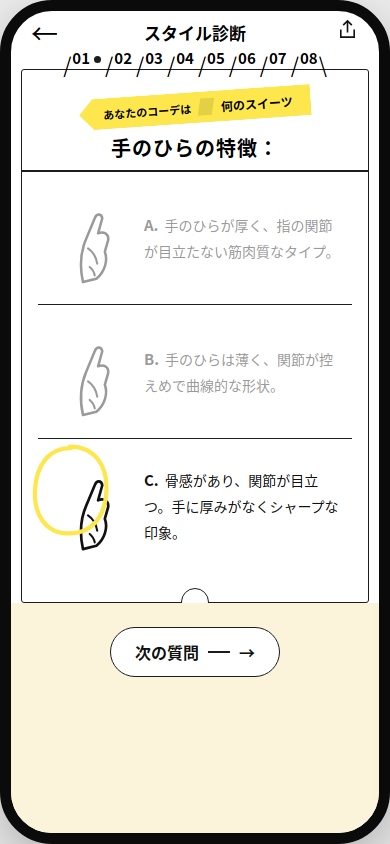
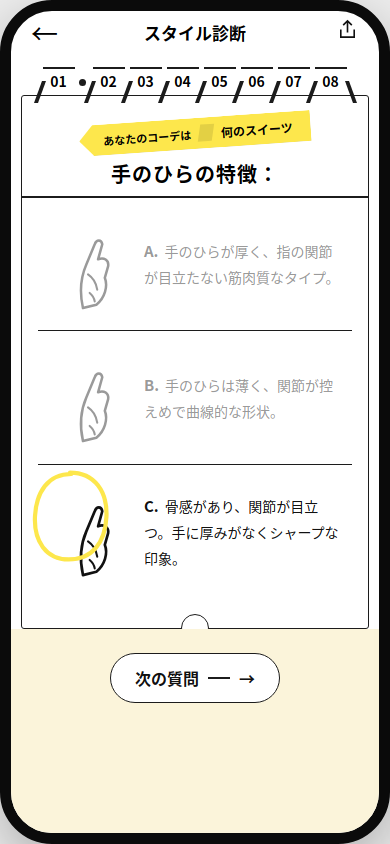
docs: 修正 tab 为菱形斜线+梯形格结构，数字悬于短横与边框之间

diff --git a/prototype/style-shindan/style-shindan-repro.html b/prototype/style-shindan/style-shindan-repro.html
@@ -40,17 +40,20 @@
   .share { position:absolute; right:20px; top:50%; transform:translateY(-50%); }
   /* ---------- card ---------- */
 
-  /* 进度 tab：/NN 骑在卡片顶边框上，斜线居数字前，末尾反斜线，当前题带 ● */
+  /* 进度 tab：每格 = 粗斜线(菱形) + 顶部短横 + 数字，骑在卡片顶边框上形成梯形 */
   .steps {
     position:absolute; bottom:100%; left:0; right:0; margin-bottom:-1px;
     display:flex; justify-content:center; align-items:flex-end; pointer-events:none;
   }
-  .step { display:flex; align-items:flex-end; margin:0 1.5px; }
-  .step .sl { font-style:normal; font-size:21px; line-height:1; margin-bottom:-4px; }
-  .step .nm { font-style:normal; font-size:15px; font-weight:700; line-height:1; padding-bottom:6px; margin:0 1px; }
-  .step .dt { width:7px; height:7px; border-radius:50%; background:#1c1c1c; margin:0 1px 8px 3px; }
+  .step { display:flex; align-items:flex-end; margin:0; }
+  .step .sl { width:4px; height:22px; background:#1c1c1c; transform:skewX(-20deg); margin:0 1px -6px 0; flex:none; }
+  .step .sl.r { transform:skewX(20deg); margin:0 0 -6px 2px; }
+  .step .tcell { display:flex; flex-direction:column; align-items:stretch; }
+  .step .ol { height:2px; background:#1c1c1c; width:32px; margin-bottom:5px; }
+  .step .nm { font-size:14px; font-weight:700; line-height:1; padding-bottom:9px; text-align:center; font-style:normal; }
+  .step .dt { width:7px; height:7px; border-radius:50%; background:#1c1c1c; margin:0 2px 11px 4px; flex:none; }
   .card {
-    margin:16px 10px 0; border:1.6px solid #1c1c1c; border-radius:3px;
+    margin:42px 10px 0; border:1.6px solid #1c1c1c; border-radius:3px;
     background:#fff; position:relative; padding:20px 16px 30px; flex-shrink:0;
   }
   .steps { position:absolute; top:-14px; left:0; right:0; text-align:center; }
@@ -122,7 +125,7 @@
       <span class="share"><svg width="23" height="23" viewBox="0 0 24 24" fill="none" stroke="#111" stroke-width="1.7"><path d="M12 3v12M7.5 7.5 12 3l4.5 4.5"/><path d="M5 12v8h14v-8"/></svg></span>
     </div>
     <div class="card">
-      <div class="steps"><span class="step"><i class="sl">/</i><b class="nm">01</b></span><span class="step"><i class="sl">/</i><b class="nm">02</b></span><span class="step"><i class="sl">/</i><b class="nm">03</b></span><span class="step"><i class="sl">/</i><b class="nm">04</b></span><span class="step"><i class="sl">/</i><b class="nm">05</b><i class="dt"></i></span><span class="step"><i class="sl">/</i><b class="nm">06</b></span><span class="step"><i class="sl">/</i><b class="nm">07</b></span><span class="step"><i class="sl">/</i><b class="nm">08</b><i class="sl">\</i></span></div>
+      <div class="steps"><span class="step"><i class="sl"></i><span class="tcell"><i class="ol"></i><b class="nm">01</b></span></span><span class="step"><i class="sl"></i><span class="tcell"><i class="ol"></i><b class="nm">02</b></span></span><span class="step"><i class="sl"></i><span class="tcell"><i class="ol"></i><b class="nm">03</b></span></span><span class="step"><i class="sl"></i><span class="tcell"><i class="ol"></i><b class="nm">04</b></span></span><span class="step"><i class="sl"></i><span class="tcell"><i class="ol"></i><b class="nm">05</b></span><i class="dt"></i></span><span class="step"><i class="sl"></i><span class="tcell"><i class="ol"></i><b class="nm">06</b></span></span><span class="step"><i class="sl"></i><span class="tcell"><i class="ol"></i><b class="nm">07</b></span></span><span class="step"><i class="sl"></i><span class="tcell"><i class="ol"></i><b class="nm">08</b></span><i class="sl r"></i></span></div>
       <div class="ribbon-wrap"><div class="ribbon"><span class="r1">あなたのコーデは</span><span class="fold"></span><span class="r2">何のスイーツ</span></div></div>
       <div class="qtitle">瞳の色：</div>
       <div class="rule"></div>
@@ -159,7 +162,7 @@
       <span class="share"><svg width="23" height="23" viewBox="0 0 24 24" fill="none" stroke="#111" stroke-width="1.7"><path d="M12 3v12M7.5 7.5 12 3l4.5 4.5"/><path d="M5 12v8h14v-8"/></svg></span>
     </div>
     <div class="card">
-      <div class="steps"><span class="step"><i class="sl">/</i><b class="nm">01</b></span><span class="step"><i class="sl">/</i><b class="nm">02</b></span><span class="step"><i class="sl">/</i><b class="nm">03</b></span><span class="step"><i class="sl">/</i><b class="nm">04</b></span><span class="step"><i class="sl">/</i><b class="nm">05</b></span><span class="step"><i class="sl">/</i><b class="nm">06</b></span><span class="step"><i class="sl">/</i><b class="nm">07</b></span><span class="step"><i class="sl">/</i><b class="nm">08</b><i class="dt"></i><i class="sl">\</i></span></div>
+      <div class="steps"><span class="step"><i class="sl"></i><span class="tcell"><i class="ol"></i><b class="nm">01</b></span></span><span class="step"><i class="sl"></i><span class="tcell"><i class="ol"></i><b class="nm">02</b></span></span><span class="step"><i class="sl"></i><span class="tcell"><i class="ol"></i><b class="nm">03</b></span></span><span class="step"><i class="sl"></i><span class="tcell"><i class="ol"></i><b class="nm">04</b></span></span><span class="step"><i class="sl"></i><span class="tcell"><i class="ol"></i><b class="nm">05</b></span></span><span class="step"><i class="sl"></i><span class="tcell"><i class="ol"></i><b class="nm">06</b></span></span><span class="step"><i class="sl"></i><span class="tcell"><i class="ol"></i><b class="nm">07</b></span></span><span class="step"><i class="sl"></i><span class="tcell"><i class="ol"></i><b class="nm">08</b></span><i class="dt"></i><i class="sl r"></i></span></div>
       <div class="ribbon-wrap"><div class="ribbon"><span class="r1">あなたのコーデは</span><span class="fold"></span><span class="r2">何のスイーツ</span></div></div>
       <div class="qtitle">自然光環境にある肌色：</div>
       <div class="rule"></div>
@@ -196,7 +199,7 @@
       <span class="share"><svg width="23" height="23" viewBox="0 0 24 24" fill="none" stroke="#111" stroke-width="1.7"><path d="M12 3v12M7.5 7.5 12 3l4.5 4.5"/><path d="M5 12v8h14v-8"/></svg></span>
     </div>
     <div class="card">
-      <div class="steps"><span class="step"><i class="sl">/</i><b class="nm">01</b><i class="dt"></i></span><span class="step"><i class="sl">/</i><b class="nm">02</b></span><span class="step"><i class="sl">/</i><b class="nm">03</b></span><span class="step"><i class="sl">/</i><b class="nm">04</b></span><span class="step"><i class="sl">/</i><b class="nm">05</b></span><span class="step"><i class="sl">/</i><b class="nm">06</b></span><span class="step"><i class="sl">/</i><b class="nm">07</b></span><span class="step"><i class="sl">/</i><b class="nm">08</b><i class="sl">\</i></span></div>
+      <div class="steps"><span class="step"><i class="sl"></i><span class="tcell"><i class="ol"></i><b class="nm">01</b></span><i class="dt"></i></span><span class="step"><i class="sl"></i><span class="tcell"><i class="ol"></i><b class="nm">02</b></span></span><span class="step"><i class="sl"></i><span class="tcell"><i class="ol"></i><b class="nm">03</b></span></span><span class="step"><i class="sl"></i><span class="tcell"><i class="ol"></i><b class="nm">04</b></span></span><span class="step"><i class="sl"></i><span class="tcell"><i class="ol"></i><b class="nm">05</b></span></span><span class="step"><i class="sl"></i><span class="tcell"><i class="ol"></i><b class="nm">06</b></span></span><span class="step"><i class="sl"></i><span class="tcell"><i class="ol"></i><b class="nm">07</b></span></span><span class="step"><i class="sl"></i><span class="tcell"><i class="ol"></i><b class="nm">08</b></span><i class="sl r"></i></span></div>
       <div class="ribbon-wrap"><div class="ribbon"><span class="r1">あなたのコーデは</span><span class="fold"></span><span class="r2">何のスイーツ</span></div></div>
       <div class="qtitle">手のひらの特徴：</div>
       <div class="rule"></div>
@@ -229,7 +232,7 @@
       <span class="share"><svg width="23" height="23" viewBox="0 0 24 24" fill="none" stroke="#111" stroke-width="1.7"><path d="M12 3v12M7.5 7.5 12 3l4.5 4.5"/><path d="M5 12v8h14v-8"/></svg></span>
     </div>
     <div class="card">
-      <div class="steps"><span class="step"><i class="sl">/</i><b class="nm">01</b></span><span class="step"><i class="sl">/</i><b class="nm">02</b><i class="dt"></i></span><span class="step"><i class="sl">/</i><b class="nm">03</b></span><span class="step"><i class="sl">/</i><b class="nm">04</b></span><span class="step"><i class="sl">/</i><b class="nm">05</b></span><span class="step"><i class="sl">/</i><b class="nm">06</b></span><span class="step"><i class="sl">/</i><b class="nm">07</b></span><span class="step"><i class="sl">/</i><b class="nm">08</b><i class="sl">\</i></span></div>
+      <div class="steps"><span class="step"><i class="sl"></i><span class="tcell"><i class="ol"></i><b class="nm">01</b></span></span><span class="step"><i class="sl"></i><span class="tcell"><i class="ol"></i><b class="nm">02</b></span><i class="dt"></i></span><span class="step"><i class="sl"></i><span class="tcell"><i class="ol"></i><b class="nm">03</b></span></span><span class="step"><i class="sl"></i><span class="tcell"><i class="ol"></i><b class="nm">04</b></span></span><span class="step"><i class="sl"></i><span class="tcell"><i class="ol"></i><b class="nm">05</b></span></span><span class="step"><i class="sl"></i><span class="tcell"><i class="ol"></i><b class="nm">06</b></span></span><span class="step"><i class="sl"></i><span class="tcell"><i class="ol"></i><b class="nm">07</b></span></span><span class="step"><i class="sl"></i><span class="tcell"><i class="ol"></i><b class="nm">08</b></span><i class="sl r"></i></span></div>
       <div class="ribbon-wrap"><div class="ribbon"><span class="r1">あなたのコーデは</span><span class="fold"></span><span class="r2">何のスイーツ</span></div></div>
       <div class="qtitle">鎖骨と肩周りのライン：</div>
       <div class="rule"></div>
@@ -264,7 +267,7 @@
       <span class="share"><svg width="23" height="23" viewBox="0 0 24 24" fill="none" stroke="#111" stroke-width="1.7"><path d="M12 3v12M7.5 7.5 12 3l4.5 4.5"/><path d="M5 12v8h14v-8"/></svg></span>
     </div>
     <div class="card">
-      <div class="steps"><span class="step"><i class="sl">/</i><b class="nm">01</b></span><span class="step"><i class="sl">/</i><b class="nm">02</b></span><span class="step"><i class="sl">/</i><b class="nm">03</b><i class="dt"></i></span><span class="step"><i class="sl">/</i><b class="nm">04</b></span><span class="step"><i class="sl">/</i><b class="nm">05</b></span><span class="step"><i class="sl">/</i><b class="nm">06</b></span><span class="step"><i class="sl">/</i><b class="nm">07</b></span><span class="step"><i class="sl">/</i><b class="nm">08</b><i class="sl">\</i></span></div>
+      <div class="steps"><span class="step"><i class="sl"></i><span class="tcell"><i class="ol"></i><b class="nm">01</b></span></span><span class="step"><i class="sl"></i><span class="tcell"><i class="ol"></i><b class="nm">02</b></span></span><span class="step"><i class="sl"></i><span class="tcell"><i class="ol"></i><b class="nm">03</b></span><i class="dt"></i></span><span class="step"><i class="sl"></i><span class="tcell"><i class="ol"></i><b class="nm">04</b></span></span><span class="step"><i class="sl"></i><span class="tcell"><i class="ol"></i><b class="nm">05</b></span></span><span class="step"><i class="sl"></i><span class="tcell"><i class="ol"></i><b class="nm">06</b></span></span><span class="step"><i class="sl"></i><span class="tcell"><i class="ol"></i><b class="nm">07</b></span></span><span class="step"><i class="sl"></i><span class="tcell"><i class="ol"></i><b class="nm">08</b></span><i class="sl r"></i></span></div>
       <div class="ribbon-wrap"><div class="ribbon"><span class="r1">あなたのコーデは</span><span class="fold"></span><span class="r2">何のスイーツ</span></div></div>
       <div class="qtitle long">ボディーラインと体のバランス：</div>
       <div class="rule"></div>
@@ -299,7 +302,7 @@
       <span class="share"><svg width="23" height="23" viewBox="0 0 24 24" fill="none" stroke="#111" stroke-width="1.7"><path d="M12 3v12M7.5 7.5 12 3l4.5 4.5"/><path d="M5 12v8h14v-8"/></svg></span>
     </div>
     <div class="card">
-      <div class="steps"><span class="step"><i class="sl">/</i><b class="nm">01</b></span><span class="step"><i class="sl">/</i><b class="nm">02</b></span><span class="step"><i class="sl">/</i><b class="nm">03</b></span><span class="step"><i class="sl">/</i><b class="nm">04</b><i class="dt"></i></span><span class="step"><i class="sl">/</i><b class="nm">05</b></span><span class="step"><i class="sl">/</i><b class="nm">06</b></span><span class="step"><i class="sl">/</i><b class="nm">07</b></span><span class="step"><i class="sl">/</i><b class="nm">08</b><i class="sl">\</i></span></div>
+      <div class="steps"><span class="step"><i class="sl"></i><span class="tcell"><i class="ol"></i><b class="nm">01</b></span></span><span class="step"><i class="sl"></i><span class="tcell"><i class="ol"></i><b class="nm">02</b></span></span><span class="step"><i class="sl"></i><span class="tcell"><i class="ol"></i><b class="nm">03</b></span></span><span class="step"><i class="sl"></i><span class="tcell"><i class="ol"></i><b class="nm">04</b></span><i class="dt"></i></span><span class="step"><i class="sl"></i><span class="tcell"><i class="ol"></i><b class="nm">05</b></span></span><span class="step"><i class="sl"></i><span class="tcell"><i class="ol"></i><b class="nm">06</b></span></span><span class="step"><i class="sl"></i><span class="tcell"><i class="ol"></i><b class="nm">07</b></span></span><span class="step"><i class="sl"></i><span class="tcell"><i class="ol"></i><b class="nm">08</b></span><i class="sl r"></i></span></div>
       <div class="ribbon-wrap"><div class="ribbon"><span class="r1">あなたのコーデは</span><span class="fold"></span><span class="r2">何のスイーツ</span></div></div>
       <div class="qtitle">初印象（スタイル）：</div>
       <div class="rule"></div>
